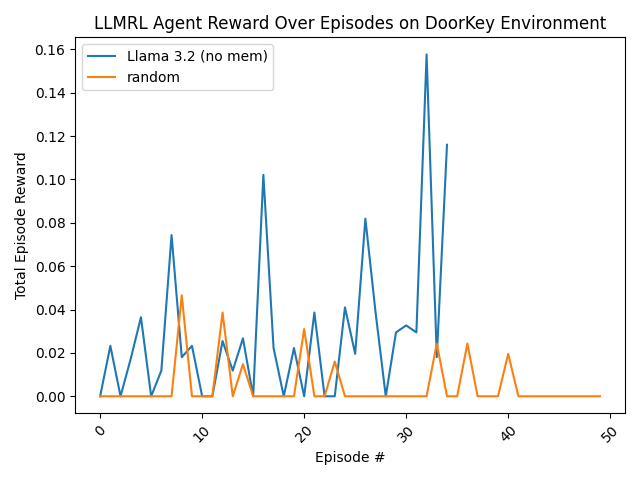
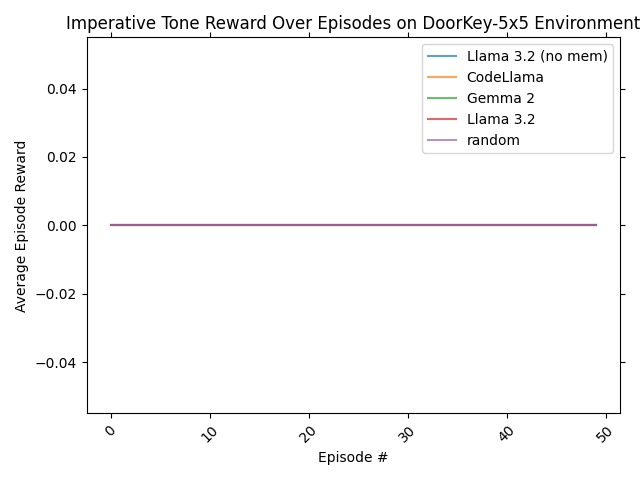
Temp data transfer (#8)

diff --git a/plots/model_comparison_plots.py b/plots/model_comparison_plots.py
@@ -10,9 +10,14 @@ PLOT_SAVE_DIR = os.path.join("./plots","figures_generated")
 AGENT_NAME = {}
 AGENT_NAME["RandomAgent"] = "random"
 AGENT_NAME["LLMAgent_llama3.2_GridConfig_1"] = "Llama 3.2 (no mem)"
+
 AGENT_NAME["LLMMemoryAgent_codellama_GridMemoryConfig_1"] = "CodeLlama"
 AGENT_NAME["LLMMemoryAgent_gemma2_GridMemoryConfig_1"] = "Gemma 2"
 AGENT_NAME["LLMMemoryAgent_llama3.2_GridMemoryConfig_1"] = "Llama 3.2"
+
+AGENT_NAME["LLMMemoryAgent_codellama_GridMemoryConfig_2"] = "CodeLlama"
+AGENT_NAME["LLMMemoryAgent_gemma2_GridMemoryConfig_2"] = "Gemma 2"
+AGENT_NAME["LLMMemoryAgent_llama3.2_GridMemoryConfig_2"] = "Llama 3.2"
 
 
 def generate_plot(exp_name, title, plot_name):
@@ -31,7 +36,7 @@ def generate_plot(exp_name, title, plot_name):
       Y.append(reward)
 
     print(agent_ID)
-    plt.plot(X, Y, label=AGENT_NAME[agent_ID])
+    plt.plot(X, Y, alpha=.7, label=AGENT_NAME[agent_ID])
 
   path = os.path.join(PLOT_SAVE_DIR, plot_name + ".png")
 
@@ -46,8 +51,23 @@ def generate_plot(exp_name, title, plot_name):
 
 
 exp_name = "LLM_Model_Comparison_config2_MiniGrid-Empty-5x5-v0"
-title = "LLMRL Agent Reward Over Episodes on DoorKey Environment"
+title = "Imperative Tone Reward Over Episodes on Empty-5x5 Environment"
+plot_name = "LLM_Comp_2_MiniGrid-Empty-5x5-v0"
+generate_plot(exp_name, title, plot_name)
+
+exp_name = "LLM_Model_Comparison_config2_MiniGrid-DoorKey-5x5-v0"
+title = "Imperative Tone Reward Over Episodes on DoorKey-5x5 Environment"
 plot_name = "LLM_Comp_2_MiniGrid-DoorKey-5x5-v0"
+generate_plot(exp_name, title, plot_name)
+
+exp_name = "LLM_Model_Comparison_config2_MiniGrid-GoToObject-6x6-N2-v0"
+title = "Imperative Tone Reward Over Episodes on GoToObject-6x6 Environment"
+plot_name = "LLM_Comp_2_MiniGrid-GoToObject-6x6-N2-v0"
+generate_plot(exp_name, title, plot_name)
+
+exp_name = "LLM_Model_Comparison_config2_MiniGrid-MemoryS11-v0"
+title = "Imperative Tone Reward Over Episodes on MemoryS11 Environment"
+plot_name = "LLM_Comp_2_MiniGrid-MemoryS11-v0"
 generate_plot(exp_name, title, plot_name)
 
 exit()

diff --git a/experiments/LLMRL_reward_experiment.py b/experiments/LLMRL_reward_experiment.py
@@ -113,8 +113,8 @@ def test_env(env_name):
 
 
 ENVIRONMENTS = {
-    "Empty": "MiniGrid-Empty-5x5-v0",
-    "DoorKey": "MiniGrid-DoorKey-5x5-v0",
+    #"Empty": "MiniGrid-Empty-5x5-v0",
+    #"DoorKey": "MiniGrid-DoorKey-5x5-v0",
     "GoToObj": "MiniGrid-GoToObject-6x6-N2-v0",
     "MemoryS7": "MiniGrid-MemoryS11-v0",
 
